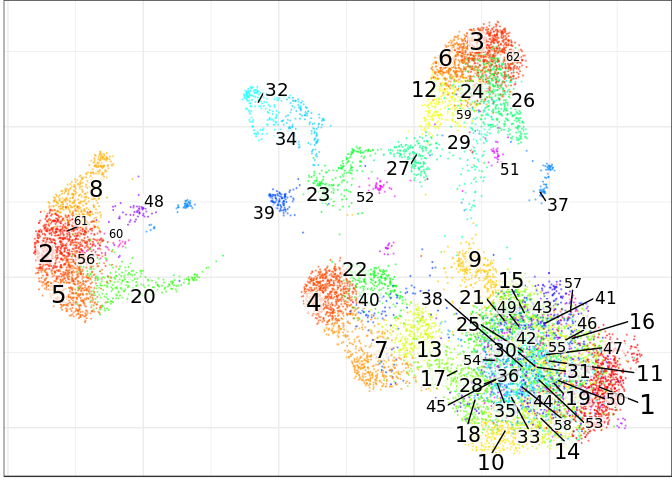
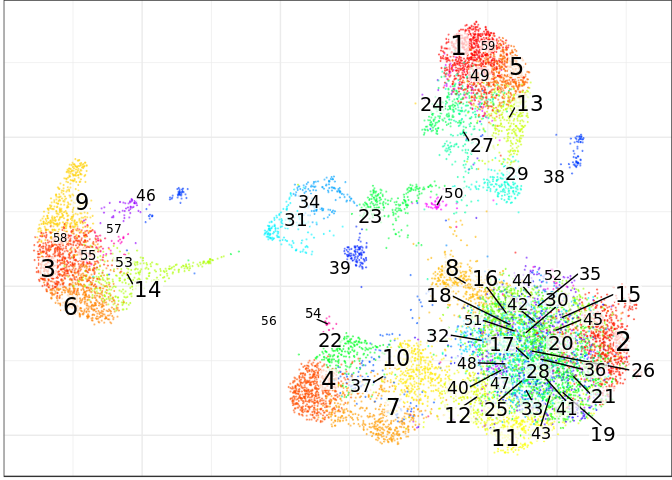
Updated vignette

diff --git a/vignettes/conos_bm_cb.md b/vignettes/conos_bm_cb.md
@@ -61,23 +61,23 @@ con$embedGraph(method="UMAP", min.dist=1, spread=2, n.cores=30)
 #> Convert graph to adjacency list...
 #> Done
 #> Estimate nearest neighbors and commute times...
-#> Estimating hitting distances: 16:56:37.
+#> Estimating hitting distances: 17:17:16.
 #> Done.
-#> Estimating commute distances: 16:56:39.
-#> Hashing adjacency list: 16:56:39.
+#> Estimating commute distances: 17:17:18.
+#> Hashing adjacency list: 17:17:18.
 #> Done.
-#> Estimating distances: 16:56:40.
+#> Estimating distances: 17:17:19.
 #> Done
 #> Done.
-#> All done!: 16:56:42.
+#> All done!: 17:17:20.
 #> Done
 #> Estimate UMAP embedding...
-#> 16:56:42 UMAP embedding parameters a = 0.09172 b = 1.334
-#> 16:56:42 Read 12000 rows and found 1 numeric columns
-#> 16:56:42 Commencing smooth kNN distance calibration using 30 threads
-#> 16:56:43 Initializing from normalized Laplacian + noise
-#> 16:56:44 Commencing optimization for 1000 epochs, with 321024 positive edges using 30 threads
-#> 16:56:51 Optimization finished
+#> 17:17:20 UMAP embedding parameters a = 0.09172 b = 1.334
+#> 17:17:20 Read 12000 rows and found 1 numeric columns
+#> 17:17:21 Commencing smooth kNN distance calibration using 30 threads
+#> 17:17:21 Initializing from normalized Laplacian + noise
+#> 17:17:22 Commencing optimization for 1000 epochs, with 321056 positive edges using 30 threads
+#> 17:17:29 Optimization finished
 #> Done
 
 con$plotGraph(size=0.2)
@@ -118,7 +118,7 @@ annotation on the whole graph:
 
 ``` r
 all_scores <- Reduce(rbind, marker_scores)
-ann_by_level <- assignCellsByScores(con$graph, scores=all_scores, clf.data=clf_datas[[1]], score.fixing.threshold=0.99)
+ann_by_level <- assignCellsByScores(con$graph, scores=all_scores, clf.data=clf_datas[[1]])
 con$plotGraph(groups=ann_by_level$annotation$l1, size=0.2, plot.na=F)
 ```
 
@@ -147,7 +147,7 @@ resolution:
 ``` r
 target_clusters <- clusters[names(annotation)[annotation %in% c("Progenitors", "Plasma")]] %>% 
   as.character() %>% unique()
-clusters_inc <- findSubcommunities(con, target_clusters, groups=clusters)
+clusters_inc <- findSubcommunities(con, target_clusters, groups=clusters, resolution=2)
 con$plotGraph(groups=clusters_inc, size=0.2, shuffle.colors=T)
 ```
 

diff --git a/README.md b/README.md
@@ -39,4 +39,4 @@ ann_by_level <- assignCellsByScores(graph, clf_data, clusters=clusters)
 plotAnnotationByLevels(emb, ann_by_level$annotation, clusters=clusters, size=0.2, font.size=c(2, 4), shuffle.colors=T)
 ```
 
-See the [vignette](vignettes/seurat_pbmc3k.md) for a Seurat example.
+See the vignettes for a [Seurat PBMC3k](vignettes/seurat_pbmc3k.md) example and [Conos BM+CB alignment annotation](vignettes/seurat_pbmc3k.md).

diff --git a/markers/bm_cb.md b/markers/bm_cb.md
@@ -35,10 +35,6 @@ not expressed: IL7R
 # >ERP/early
 # expressed: APOC1, PCAT18
 
->Lymphoid
-expressed: FABP5
-not expressed: HPGDS, SPINK2
-
 >Progenitors
 expressed: AVP, HPGDS, SPINK2
 not expressed: PPBP
